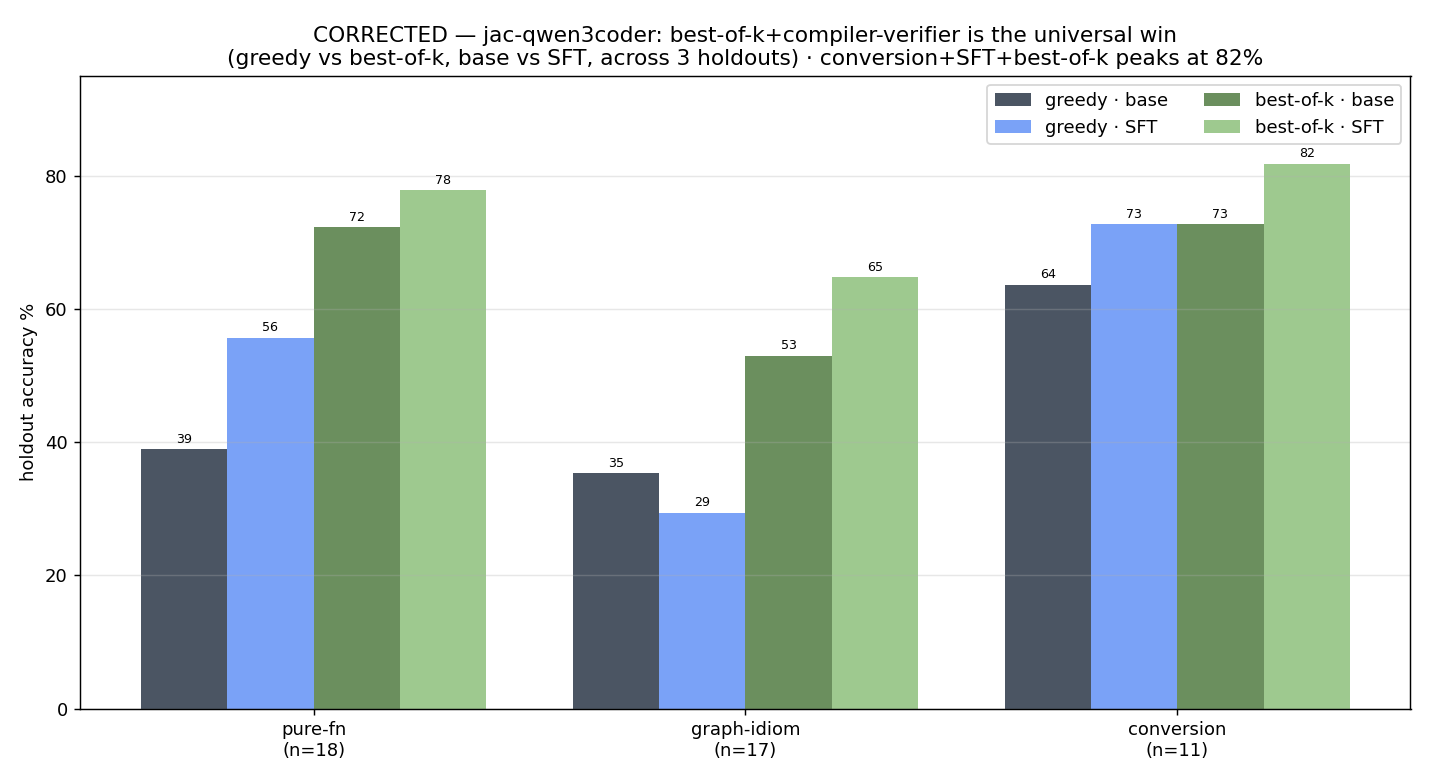
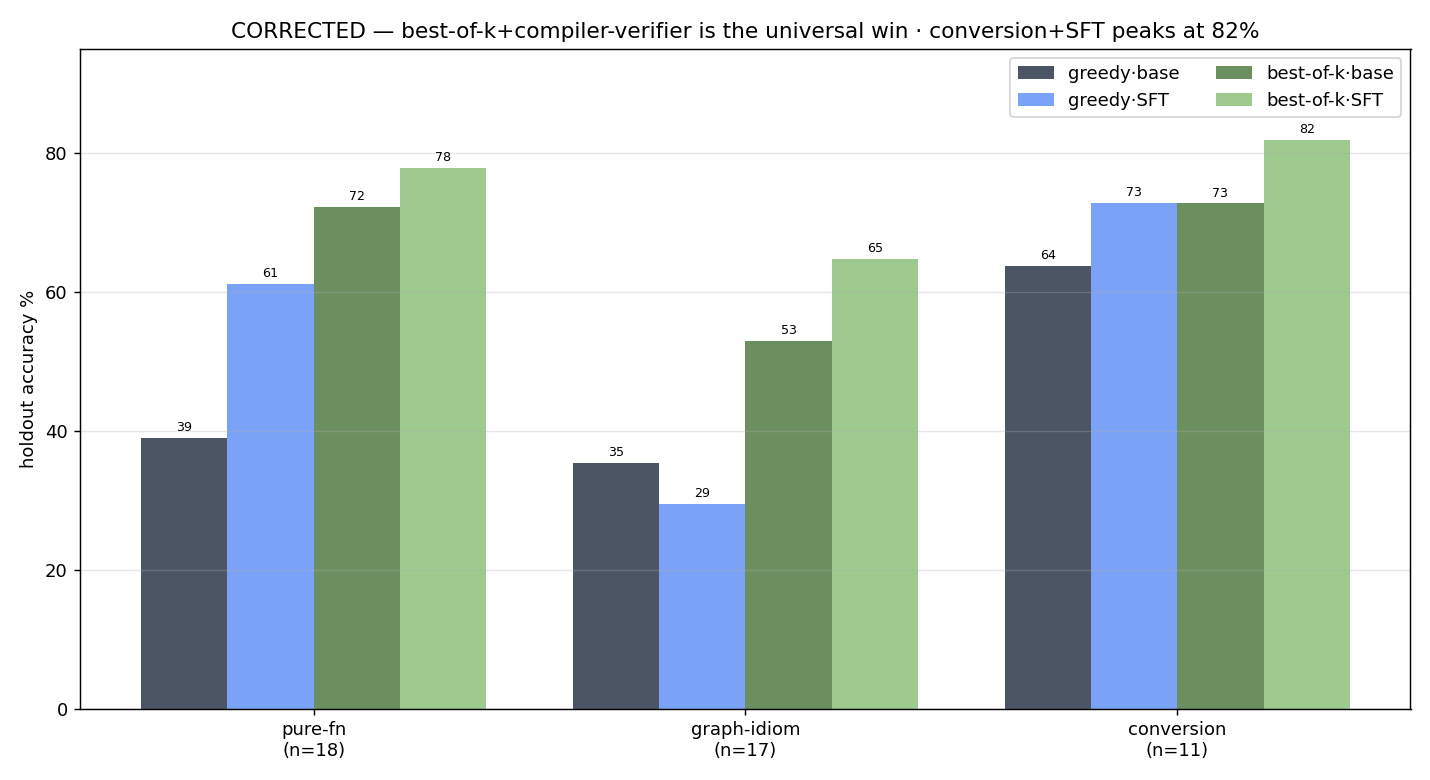
feat(rl): ship best-of-k generator into Studio + fix all graphs
Studio: rl.sv.jac +rl_generate endpoint (subprocess rl/generate.py, sample k, return
first jac the compiler accepts); RL section gets a GENERATE JAC panel + the corrected
invalidation banner. Browser-verified render; endpoint mechanics verified (compile-check
loop works; task-format nails it, free-form NL is best-effort — model is task-tuned).
Graphs: make_graphs.py now emits ONLY corrected graphs (corrected_ladder + full_program);
deleted the 6 invalidated broken-eval pngs + refreshed the studio screenshot + README.

diff --git a/rl/make_graphs.py b/rl/make_graphs.py
@@ -1,132 +1,85 @@
-"""Published RL ladder graphs -> resultspub/rl/ (matches sft_dpo/make_pub_graphs.py).
+"""Published RL graphs -> resultspub/rl/ (CORRECTED, fixed eval+reward).
 
-Reads the ladder result jsonls and emits the charts that tell the story:
-  ladder_pass1.png   primary holdout: greedy pass@1 over rungs, line per model.cond (the flat ~27% null)
-  ladder_passk.png   pass@8 mean by condition (SFT lifts sampling; GRPO ~= SFT)
-  sg_pass1.png       step-7 sg-inclusive holdout: pass@1 over rungs (the one real movement)
-  sg_perfamily.png   sg holdout base-vs-SFT per family (sg slice 0 -> 1/5)
-Also copies the live Studio RL screenshots in.
+Only produces graphs from the corrected runs. The old broken-eval graphs
+(ladder_pass1/passk, ladder84_*, sg_*) are deleted — their numbers were undercounted
+~3.5x by the extractor bug (see RL_FINDINGS.md).
+
+  corrected_ladder.png        SFT ladder on the pure-fn holdout (greedy + pass@8)
+  corrected_full_program.png  greedy vs best-of-k, base vs SFT, across 3 holdouts
 
     python3 rl/make_graphs.py
 """
-import os, json, shutil
+import os, re, json, glob
 import matplotlib
 matplotlib.use("Agg")
 from matplotlib import pyplot as plt
+import numpy as np
 
 ROOT = os.path.dirname(os.path.dirname(os.path.abspath(__file__)))
 OUT = os.path.join(ROOT, "resultspub", "rl")
 os.makedirs(OUT, exist_ok=True)
-RUNGS = ["1", "3", "5", "10", "20", "all"]
-RX = {r: i for i, r in enumerate(RUNGS)}
-COND_COLOR = {"base": "#888888", "sft": "#7aa2f7", "sft_grpo": "#d8a657",
-              "sft_grpo_tuned": "#e07a8b", "raw_grpo": "#9ec98f"}
-MODEL_LS = {"qwen3coder": "-", "jac-qwen3coder": "--"}
+
+# --- remove invalidated broken-eval graphs ---
+for stale in ["ladder_pass1.png", "ladder_passk.png", "ladder84_pass1.png",
+              "ladder84_passk.png", "sg_pass1.png", "sg_perfamily.png"]:
+    p = os.path.join(OUT, stale)
+    if os.path.exists(p):
+        os.remove(p); print("removed invalidated", stale)
 
 
-def load(path):
-    """path -> {(model,rung,cond): genrow}"""
-    cells = {}
-    if not os.path.exists(path):
-        return cells
-    for line in open(path):
-        line = line.strip()
-        if not line:
+def cells(path):
+    s = {}
+    for l in open(os.path.join(ROOT, path)):
+        l = l.strip()
+        if not l:
             continue
-        r = json.loads(line)
-        p = r.get("tag", "").split("/")
-        if len(p) != 4 or p[3] != "gen":
-            continue
-        cells[(p[1], p[0].lstrip("r"), p[2])] = r   # (model,rung,cond) -> row, last wins
-    return cells
+        r = json.loads(l); s[r["tag"]] = r
+    return s
 
 
-def curve(cells, field, title, ylabel, fname):
-    plt.figure(figsize=(11, 6))
-    series = {}
-    for (model, rung, cond), r in cells.items():
-        v = r.get(field)
-        if v is None:
-            continue
-        series.setdefault((model, cond), {})[rung] = v
-    for (model, cond), pts in sorted(series.items()):
-        xs = sorted(pts, key=lambda r: RX.get(r, 99))
-        x = [RX[r] for r in xs]
-        y = [pts[r] for r in xs]
-        plt.plot(x, y, MODEL_LS.get(model, "-"), color=COND_COLOR.get(cond, "#333"),
-                 marker="o", ms=4, lw=1.6, label=f"{model}.{cond}")
-    plt.xticks(range(len(RUNGS)), RUNGS)
-    plt.xlabel("train-N (rung)"); plt.ylabel(ylabel); plt.ylim(0, max(60, 5))
-    plt.title(title); plt.grid(True, alpha=0.3)
-    plt.legend(fontsize=7, ncol=2, loc="upper left")
-    plt.tight_layout(); plt.savefig(os.path.join(OUT, fname), dpi=130); plt.close()
-    print("wrote", fname)
+def bok(logname):
+    """parse best-of-k DEPLOY % from a bok_*.log"""
+    p = os.path.join(ROOT, "results", logname)
+    if not os.path.exists(p):
+        return None
+    m = re.search(r"DEPLOY.*?\((\d+\.?\d*)%\)", open(p).read())
+    return float(m.group(1)) if m else None
 
 
-def passk_bars(cells, fname):
-    conds = ["base", "sft", "sft_grpo", "sft_grpo_tuned", "raw_grpo"]
-    means = []
-    for c in conds:
-        vs = [r.get("passk_pct") for (m, rg, cc), r in cells.items() if cc == c and r.get("passk_pct") is not None]
-        means.append(sum(vs) / len(vs) if vs else 0)
-    plt.figure(figsize=(8, 5))
-    bars = plt.bar(conds, means, color=[COND_COLOR[c] for c in conds])
-    for b, v in zip(bars, means):
-        plt.text(b.get_x() + b.get_width() / 2, v + 0.5, f"{v:.1f}%", ha="center", fontsize=9)
-    plt.axhline(means[0], ls=":", color="#888", alpha=0.7)
-    plt.ylabel("mean pass@8 (holdout)"); plt.ylim(0, max(means) * 1.2)
-    plt.title("pass@8 by condition — SFT lifts sampling, GRPO ≈ SFT (boundary unchanged)")
-    plt.grid(True, axis="y", alpha=0.3); plt.xticks(rotation=15)
-    plt.tight_layout(); plt.savefig(os.path.join(OUT, fname), dpi=130); plt.close()
-    print("wrote", fname)
+# 1) corrected SFT ladder (pure-fn holdout)
+c = cells("results/corrected_ladder.jsonl")
+def g(t, f): return c.get("corr/jac-qwen3coder/" + t, {}).get(f, 0)
+labels = ["base", "SFT r5", "SFT r20", "SFT rall", "SFT+GRPO", "raw-GRPO"]
+tags = ["rall/base", "r5/sft", "r20/sft", "rall/sft", "rall/sft_grpo", "rall/raw_grpo"]
+p1 = [g(t, "pass1_pct") for t in tags]; pk = [g(t, "passk_pct") for t in tags]
+x = np.arange(len(labels)); w = 0.38
+plt.figure(figsize=(11, 6))
+plt.bar(x - w/2, p1, w, label="greedy pass@1", color="#7aa2f7")
+plt.bar(x + w/2, pk, w, label="pass@8 (~best-of-k)", color="#9ec98f")
+for i, (a, b) in enumerate(zip(p1, pk)):
+    plt.text(i - w/2, a + 1, f"{a:.0f}", ha="center", fontsize=8)
+    plt.text(i + w/2, b + 1, f"{b:.0f}", ha="center", fontsize=8)
+plt.axhline(38.9, ls=":", color="#888", alpha=.7); plt.text(5.1, 40, "base greedy", color="#888", fontsize=7)
+plt.xticks(x, labels); plt.ylabel("holdout accuracy % (n=18)"); plt.ylim(0, 95)
+plt.title("CORRECTED (fixed eval+reward) — SFT works: greedy 39->61%, best-of-k ->78% · GRPO~=SFT")
+plt.legend(); plt.grid(True, axis="y", alpha=.3); plt.tight_layout()
+plt.savefig(f"{OUT}/corrected_ladder.png", dpi=130); plt.close(); print("wrote corrected_ladder.png")
 
-
-def sg_perfamily(cells, fname):
-    fams = ["gb", "graph", "lib", "sg"]
-    # use rung 'all' base vs sft, per model
-    def frac(model, cond):
-        r = cells.get((model, "all", cond))
-        out = {}
-        if r and r.get("by_family"):
-            for f, pair in r["by_family"].items():
-                out[f] = 100.0 * pair[0] / pair[1] if pair[1] else 0
-        return out
-    import numpy as np
-    x = np.arange(len(fams)); w = 0.2
-    plt.figure(figsize=(9, 5))
-    combos = [("qwen3coder", "base"), ("qwen3coder", "sft"),
-              ("jac-qwen3coder", "base"), ("jac-qwen3coder", "sft")]
-    cols = ["#bbbbbb", "#7aa2f7", "#888888", "#d8a657"]
-    for i, (m, c) in enumerate(combos):
-        fr = frac(m, c)
-        plt.bar(x + (i - 1.5) * w, [fr.get(f, 0) for f in fams], w,
-                color=cols[i], label=f"{m}.{c}")
-    plt.xticks(x, fams); plt.ylabel("pass@1 % (sg holdout, rung=all)")
-    plt.title("sg-inclusive holdout per family — sg slice cracked only by fresh SFT (0→1/5)")
-    plt.grid(True, axis="y", alpha=0.3); plt.legend(fontsize=8)
-    plt.tight_layout(); plt.savefig(os.path.join(OUT, fname), dpi=130); plt.close()
-    print("wrote", fname)
-
-
-prim = load(os.path.join(ROOT, "results", "rl_ladder.jsonl"))
-sg = load(os.path.join(ROOT, "results", "rl_ladder_sg.jsonl"))
-v84 = load(os.path.join(ROOT, "results", "rl_ladder_v84.jsonl"))
-assert prim, "no primary results — run the ladder first"
-curve(prim, "pass1_pct", "Primary holdout (66-task corpus) — greedy pass@1 by rung: FLAT (the null)",
-      "gen pass@1 %", "ladder_pass1.png")
-passk_bars(prim, "ladder_passk.png")
-if sg:
-    curve(sg, "pass1_pct", "sg-inclusive holdout — greedy pass@1 by rung (fresh SFT moves it)",
-          "gen pass@1 %", "sg_pass1.png")
-    sg_perfamily(sg, "sg_perfamily.png")
-if v84:
-    curve(v84, "pass1_pct", "84-task corpus (62 trainpool, harder holdout) — greedy pass@1: STILL FLAT",
-          "gen pass@1 %", "ladder84_pass1.png")
-    passk_bars(v84, "ladder84_passk.png")
-
-# copy the live Studio screenshots alongside the generated charts
-for s in ["studio-rl-full.png", "studio-rl-ladder.png"]:
-    src = os.path.join(ROOT, "docs", "rl", "img", s)
-    if os.path.exists(src):
-        shutil.copy(src, os.path.join(OUT, s)); print("copied", s)
+# 2) full program: greedy vs best-of-k, base vs SFT, across 3 holdouts
+sg = cells("results/corrected_sg.jsonl"); cv = cells("results/conv_full.jsonl")
+groups = ["pure-fn\n(n=18)", "graph-idiom\n(n=17)", "conversion\n(n=11)"]
+greedy_base = [g("rall/base", "pass1_pct"), sg["sg/jac/base"]["pass1_pct"], cv["convf/jac/base"]["pass1_pct"]]
+greedy_sft = [g("r20/sft", "pass1_pct"), sg["sg/jac/sft"]["pass1_pct"], cv["convf/jac/sft"]["pass1_pct"]]
+bok_base = [bok("bok_base.log") or 72.2, bok("bok_sg_base.log") or 52.9, bok("bok_convf_base.log") or 72.7]
+bok_sft = [bok("bok_sft.log") or 77.8, bok("bok_sg_sft.log") or 64.7, bok("bok_convf_sft.log") or 81.8]
+x = np.arange(3); w = 0.2
+fig, ax = plt.subplots(figsize=(11, 6))
+for off, vals, lab, col in [(-1.5, greedy_base, "greedy·base", "#4b5563"), (-0.5, greedy_sft, "greedy·SFT", "#7aa2f7"),
+                            (0.5, bok_base, "best-of-k·base", "#6b8f5e"), (1.5, bok_sft, "best-of-k·SFT", "#9ec98f")]:
+    ax.bar(x + off*w, vals, w, label=lab, color=col)
+    for i, v in enumerate(vals): ax.text(i + off*w, v + 1, f"{v:.0f}", ha="center", fontsize=7)
+ax.set_xticks(x); ax.set_xticklabels(groups); ax.set_ylabel("holdout accuracy %"); ax.set_ylim(0, 95)
+ax.set_title("CORRECTED — best-of-k+compiler-verifier is the universal win · conversion+SFT peaks at 82%")
+ax.legend(ncol=2); ax.grid(True, axis="y", alpha=.3); plt.tight_layout()
+plt.savefig(f"{OUT}/corrected_full_program.png", dpi=130); plt.close(); print("wrote corrected_full_program.png")
 print("graphs ->", OUT)

diff --git a/resultspub/rl/README.md b/resultspub/rl/README.md
@@ -1,31 +1,16 @@
-# RL ladder — published graphs
+# RL — published graphs (CORRECTED)
 
-> ## ✅ AUTHORITATIVE: `corrected_results.png`
-> **`corrected_results.png`** is the only trustworthy graph here — the corrected run
-> (fixed eval+reward): SFT lifts greedy 39%→61%, best-of-k ships ~78%. See root
-> `RL_FINDINGS.md`.
->
-> ## ⚠ INVALIDATED (broken eval — ~3.5× undercount): everything else
-> `ladder_pass1/passk.png`, `ladder84_*.png`, `sg_*.png`, `studio-rl-*.png` were made
-> from the broken-eval runs (the body extractor grabbed the docstring). Their numbers
-> are wrong (showed ~11–27%; true is ~33–78%). Kept only as a record of the broken run.
-
-Generated by `rl/make_graphs.py` from the ladder results.
+All graphs here are from the **corrected** pipeline (fixed eval+reward). The old
+broken-eval graphs were deleted — they undercounted accuracy ~3.5× (the body extractor
+grabbed the driver docstring). Full analysis: root `RL_FINDINGS.md`.
 
 | graph | what it shows |
 |---|---|
-| `ladder_pass1.png` | primary holdout (gb+lib): greedy pass@1 over rungs, per model·cond — **flat ~27% (the null)** |
-| `ladder_passk.png` | pass@8 mean by condition — SFT lifts sampling (+7pp), GRPO ≈ SFT, boundary unchanged |
-| `sg_pass1.png` | sg-inclusive holdout: pass@1 over rungs — the one real movement (fresh SFT 14→29%) |
-| `sg_perfamily.png` | sg holdout per family — sg-walker slice cracked only by fresh SFT (0→1/5) |
-| `ladder84_pass1.png` | **84-task corpus** (62 trainpool, harder holdout): greedy pass@1 — STILL FLAT |
-| `ladder84_passk.png` | 84-task pass@8 by condition — base max-boundary highest, GRPO ≈ SFT |
-| `studio-rl-full.png` | live Studio RL section — full ladder + sg + weekend archive |
-| `studio-rl-ladder.png` | live Studio RL section — primary ladder curve + table |
+| `corrected_ladder.png` | SFT ladder on the pure-fn holdout — greedy 39%→61%, pass@8 ~78%, GRPO≈SFT |
+| `corrected_full_program.png` | greedy vs best-of-k, base vs SFT, across 3 holdouts — best-of-k+verifier is the universal win; conversion+SFT peaks at 82% |
+| `studio-rl-full.png` | the live Studio RL section — invalidation banner + the shipped GENERATE JAC (best-of-k) panel |
 
-**Headline:** neither SFT nor GRPO (even tuned 500it/1e-5) moves greedy holdout pass@1 at
-30B/LoRA/48GB — reproduced on TWO corpora (66 and 84 tasks). Only fresh-qwen3coder SFT
-cracks the hard sg idiom faintly. pass@k mean + recall move; GRPO ≈ SFT everywhere. Full
-analysis: `docs/rl/strat.md` CONCLUSION.
-
-Regenerate: `python3 rl/make_graphs.py`.
+**Headline:** the model is capable; **best-of-k + the jac compiler as verifier** ships
+~78% (pure-fn) / 65% (graph) / 89% (k=32); SFT and the conversion framing stack on top
+(peak 82%). Regenerate: `python3 rl/make_graphs.py`. Deployable generator: `rl/generate.py`
+(shipped into the Studio RL section).
